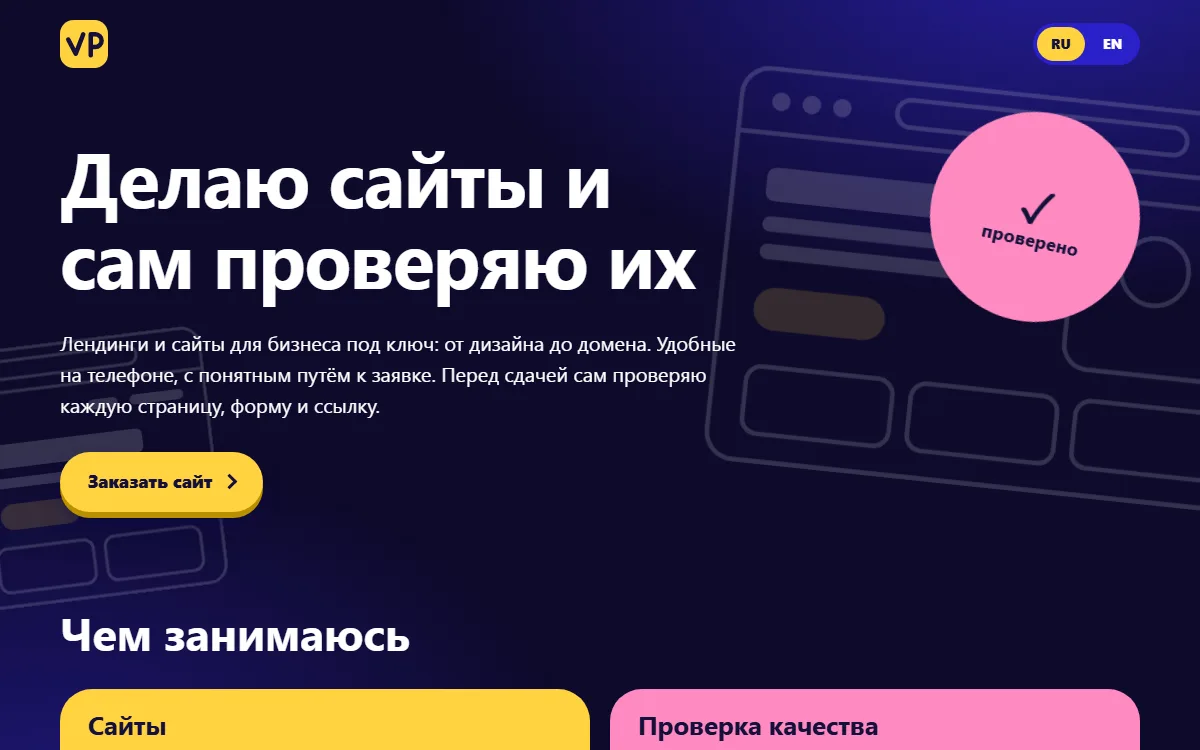
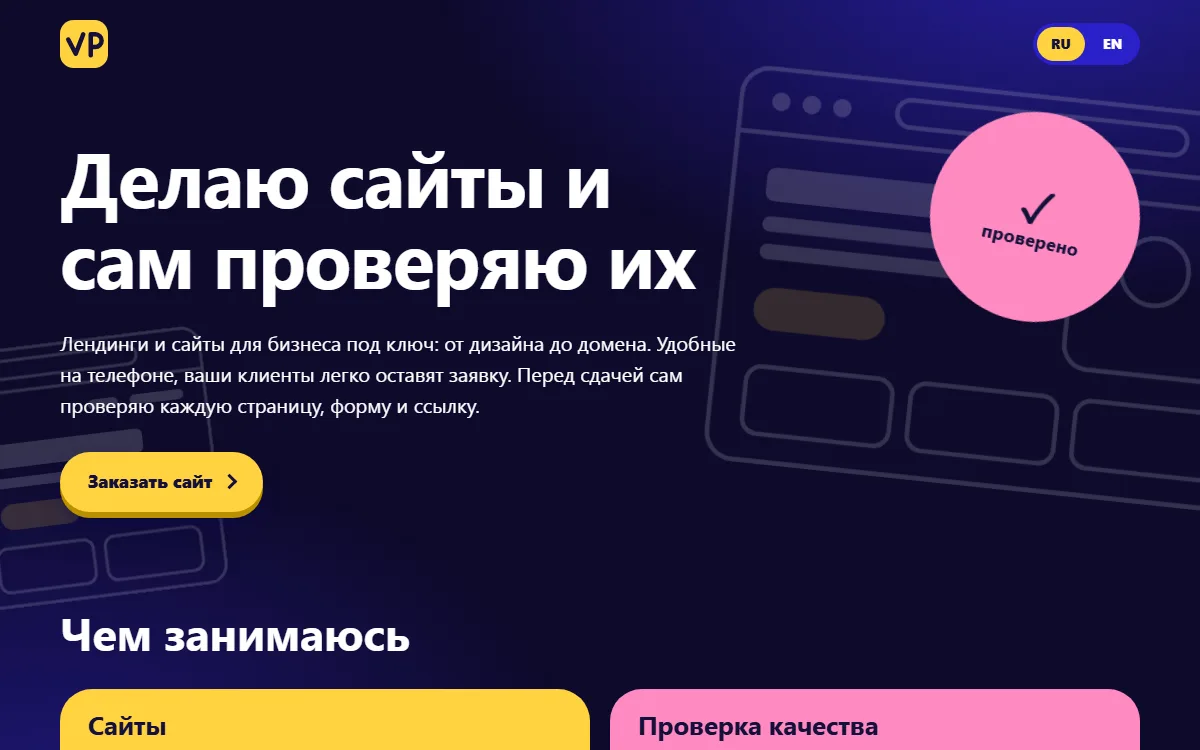
Правки после ревью: тексты по факту, мёртвые стили, CLAUDE.md сверен с сайтом

Changed region(s): [[0.0308, 0.4907, 0.5858, 0.552]]

diff --git a/index.html b/index.html
@@ -92,7 +92,7 @@
         <span>проверено</span>
       </div>
       <h1 data-testid="hero-title" class="intro"><span>Делаю сайты и сам проверяю их</span></h1>
-      <p class="lead intro"><span class="sweep">Лендинги и сайты для бизнеса под ключ: от дизайна до домена. Удобные на телефоне, с понятным путём к заявке. Перед сдачей сам проверяю каждую страницу, форму и ссылку.</span></p>
+      <p class="lead intro"><span class="sweep">Лендинги и сайты для бизнеса под ключ: от дизайна до домена. Удобные на телефоне, ваши клиенты легко оставят заявку. Перед сдачей сам проверяю каждую страницу, форму и ссылку.</span></p>
       <div class="intro"><a data-testid="hero-order" class="btn" href="#order">Заказать сайт</a></div>
     </div>
 
@@ -112,7 +112,7 @@
         <li><strong>Адаптивная вёрстка</strong><span>Сайт удобен на телефоне, планшете и компьютере.</span></li>
         <li><strong>Формы и ссылки</strong><span>Проверяю, что заявка доходит, а ссылки не ведут в никуда.</span></li>
         <li><strong>Телефоны и компьютеры</strong><span>Смотрю каждую страницу на разных размерах экрана.</span></li>
-        <li><strong>Автотесты на Python</strong><span>Ключевые проверки повторяются после каждой правки.</span></li>
+        <li><strong>Автотесты на Python</strong><span>Ключевые проверки можно повторить перед каждой выкладкой.</span></li>
       </ul>
     </section>
 
@@ -148,7 +148,7 @@
             <li>До 6 страниц</li>
             <li>Дизайн под ваш фирменный стиль</li>
             <li>Форма заявки, SEO-настройка, карта сайта</li>
-            <li>Проверка ключевых страниц и формы</li>
+            <li>Проверка всех страниц и формы</li>
             <li>Срок: от 2 недель</li>
           </ul>
           <a data-testid="plan-order" class="btn" href="#order">Заказать</a>
@@ -193,7 +193,7 @@
                loading="lazy" decoding="async" alt="Главный экран приложения «Карманный тренер»: схема тела и группы мышц">
           <span class="kind">Мой проект · веб-приложение</span>
           <h3 class="title">Карманный тренер</h3>
-          <p class="task">Задача: бесплатный каталог упражнений для зала. Выбираешь мышцу на схеме тела и видишь технику по шагам. Ставится на телефон и работает без интернета.</p>
+          <p class="task">Задача: бесплатный каталог упражнений для зала. Выбираешь мышцу на схеме тела и видишь технику по шагам. Ставится на телефон, каталог работает без интернета.</p>
           <ul class="tech"><li>Astro</li><li>PWA</li><li>pytest</li><li>Playwright</li></ul>
           <span class="open">Открыть приложение</span>
         </a>

diff --git a/en/index.html b/en/index.html
@@ -92,7 +92,7 @@
         <span>checked</span>
       </div>
       <h1 data-testid="hero-title" class="intro"><span>I build websites and test them myself</span></h1>
-      <p class="lead intro"><span class="sweep">Turnkey landing pages and business websites, from design to domain. Easy to use on a phone, with a clear path to an enquiry. Before handover I personally check every page, form and link.</span></p>
+      <p class="lead intro"><span class="sweep">Turnkey landing pages and business websites, from design to domain. Easy to use on a phone, and easy for your customers to reach you. Before handover I personally check every page, form and link.</span></p>
       <div class="intro"><a data-testid="hero-order" class="btn" href="#order">Order a site</a></div>
     </div>
 
@@ -112,7 +112,7 @@
         <li><strong>Responsive layout</strong><span>The site works well on phones, tablets and desktops.</span></li>
         <li><strong>Forms and links</strong><span>I make sure enquiries arrive and no link leads nowhere.</span></li>
         <li><strong>Phones and desktops</strong><span>I review every page at different screen sizes.</span></li>
-        <li><strong>Automated tests in Python</strong><span>Key checks are repeated after every change.</span></li>
+        <li><strong>Automated tests in Python</strong><span>Key checks can be repeated before every release.</span></li>
       </ul>
     </section>
 
@@ -142,7 +142,7 @@
             <li>Up to 6 pages</li>
             <li>Design that follows your brand</li>
             <li>Contact form, SEO setup, sitemap</li>
-            <li>Checks of key pages and the form</li>
+            <li>Checks of every page and the form</li>
             <li>Timeline: from 2 weeks</li>
           </ul>
           <a data-testid="plan-order" class="btn" href="#order">Order</a>
@@ -187,7 +187,7 @@
                loading="lazy" decoding="async" alt="Home screen of the Pocket Trainer app: body diagram and muscle groups">
           <span class="kind">My project · web app (in Russian)</span>
           <h3 class="title">Pocket Trainer</h3>
-          <p class="task">The task: a free gym exercise catalog. Pick a muscle on the body diagram and see step-by-step technique. Installs on a phone and works offline.</p>
+          <p class="task">The task: a free gym exercise catalog. Pick a muscle on the body diagram and see step-by-step technique. Installs on a phone, and the catalog works offline.</p>
           <ul class="tech"><li>Astro</li><li>PWA</li><li>pytest</li><li>Playwright</li></ul>
           <span class="open">Open the app</span>
         </a>

diff --git a/css/style.css b/css/style.css
@@ -1,4 +1,3 @@
-[hidden] { display: none !important; }
 :root {
   --blue: #3a2eff;
   --bg: #0e0a2b;
@@ -258,13 +257,6 @@ h2 { font-family: var(--font); font-weight: 700; font-size: clamp(1.7rem, 4.5vw,
 .contacts a > span:first-child { display: inline-block; transition: transform .3s var(--ease); }
 .contacts a:hover { color: var(--yellow); }
 .contacts a:hover > span:first-child { transform: translateX(12px); }
-/* contact that does not exist yet: same row, not clickable, muted */
-.contacts .soon-row {
-  display: flex; justify-content: space-between; gap: 16px; align-items: baseline;
-  padding: 22px 0; font-family: var(--font); font-weight: 600;
-  font-size: clamp(1.15rem, 3.2vw, 2rem); opacity: .55;
-}
-.contacts .soon-row .val { color: var(--white); font-style: italic; }
 .contacts .val {
   font-family: var(--font); font-weight: 800; font-size: 1rem;
   color: var(--pink); text-align: right; overflow-wrap: anywhere;
@@ -370,7 +362,6 @@ section:has(.currency input[value="rub"]:checked) .amount-byn { display: none; }
 .notfound h1 { margin: 0 0 8px; font-size: clamp(1.8rem, 5vw, 3rem); }
 .notfound p { margin: 0; }
 .notfound .notfound-links { display: flex; flex-wrap: wrap; gap: 16px; margin-top: 24px; }
-.placeholder { font-style: italic; opacity: .8; }
 .notfound .code { font-family: var(--font); font-weight: 700; font-size: clamp(5rem, 22vw, 12rem); line-height: 1; color: var(--yellow); }
 
 footer { padding: 24px 0 48px; font-size: .9rem; opacity: .8; display: flex; flex-wrap: wrap; gap: 8px 24px; }
@@ -422,7 +413,7 @@ main:focus-visible { outline: none; }
   .hero { padding: 24px 0 72px; }
   .stamp { position: static; margin: 0 0 24px; }
   .panels, .cards, .trust { grid-template-columns: 1fr; }
-  .contacts a, .contacts .soon-row { flex-direction: column; gap: 4px; }
+  .contacts a { flex-direction: column; gap: 4px; }
   .contacts .val { text-align: left; }
   .currency legend { float: none; line-height: 1.4; margin-bottom: 10px; } /* both pills fit in one row */
   .about { grid-template-columns: 1fr; gap: 32px; }

diff --git a/CLAUDE.md b/CLAUDE.md
@@ -11,7 +11,7 @@
 
 Главная мысль страницы: **«Делаю сайты и сам проверяю их»**. Вадим в первую очередь разработчик сайтов, проверка качества — его плюс.
 
-**Упор во всех текстах — на разработку сайтов, тестирование второстепенно** (решение владельца, 26.10.2026). Для клиента пишем о том, что он получит (сайт под ключ, удобный на телефоне, с формой заявки, проверенный перед сдачей), а не о технологиях. Названия инструментов (pytest, Playwright) и слово «автотесты» — только в коротких упоминаниях: карточка «Проверка качества», «Обо мне», навыки в JSON-LD. Профессия в JSON-LD: «Разработчик сайтов».
+**Упор во всех текстах — на разработку сайтов, тестирование второстепенно** (решение владельца, 26.10.2026). Для клиента пишем о том, что он получит (сайт под ключ, удобный на телефоне, с формой заявки, проверенный перед сдачей), а не о технологиях. Названия инструментов (pytest, Playwright) и слово «автотесты» — только в коротких упоминаниях: карточка «Проверка качества», список «что проверяю», «Обо мне», технологии в карточках «Мои сайты», навыки в JSON-LD. Профессия в JSON-LD: «Разработчик сайтов».
 
 Адрес: `https://vpopchenya.github.io` (русская версия) и `https://vpopchenya.github.io/en/` (английская). Размещён на GitHub Pages, это статический сайт без сборки.
 
@@ -21,7 +21,7 @@
 
 1. **Сначала вопросы, потом действия.** Перед любым действием, особенно публикацией, коммитом, включением настроек или созданием контента, который увидят люди, задавай уточняющие вопросы. Так результат получается лучше.
 2. **Сначала показать, потом публиковать.** Новую версию сначала показывай в виде превью (закрытая страница или файл) и публикуй на GitHub только после явного «да» владельца.
-3. **Не выдумывать публичные данные.** Контакты и цены сейчас заглушки. Не подставляй чужие или придуманные значения, не размещай их в структурированных данных (JSON-LD).
+3. **Не выдумывать публичные данные.** Контакты настоящие, цены ориентировочные. Не подставляй чужие или придуманные значения, не размещай их в структурированных данных (JSON-LD).
 4. **Заглушка не должна быть рабочей ссылкой.** Ссылка вида `t.me/username` ведёт на чужой аккаунт. Пока контакта или работы нет, показывай неактивную строку «скоро появится», а не ссылку.
 5. **Не создавать аккаунты и не вводить ключи** вместо владельца. Ключи сервисов он получает сам.
 6. **Общение по-русски**, коротко и по делу. Проверяй все ключевые ширины: 1920, 1280, 768 и 390 px, плюс обе стороны каждой точки перестройки вёрстки (901/900 и 761/760 px). Скриншоты смотри на 1920, 1280, 768 и 390 px.
@@ -108,9 +108,10 @@ CLAUDE.md               этот файл
 |---|---|
 | Шапка (все страницы, кроме 404) | `logo`, `lang-switch`, `lang-ru`, `lang-en` |
 | Главный экран | `skip-link`, `stamp`, `hero-title`, `hero-order` |
-| Секции | `section-what`, `section-prices`, `section-works`, `section-order`, `section-contacts` |
+| Секции | `section-what`, `section-prices`, `section-process`, `section-works`, `section-order`, `section-contacts` |
+| «Как проходит работа» | `step-1` … `step-5` |
 | «Чем занимаюсь» | `panel-tests`, `panel-sites`, `trust-list` |
-| Цены | `plan-landing`, `plan-corporate`, `plan-multipage`, внутри каждой `plan-price`, `plan-order`. Только RU: `currency-switch`, `currency-rub`, `currency-byn` (на `<label>`), в `plan-price` лежат `plan-price-rub` и `plan-price-byn`. Только EN: в `plan-price` лежит `plan-price-usd` |
+| Цены | `plan-landing`, `plan-corporate`, `plan-multipage`, внутри каждой `plan-price`, `plan-order`; под карточками `plans-note`. Только RU: `currency-switch`, `currency-rub`, `currency-byn` (на `<label>`), в `plan-price` лежат `plan-price-rub` и `plan-price-byn`. Только EN: в `plan-price` лежит `plan-price-usd` |
 | «Обо мне» | `section-about`, `about-photo`, `about-name`, `about-github` |
 | «Мои сайты» | `work-card-1`, `work-card-2`, `works-order` |
 | Заказ | `order-telegram`, `order-email` |
@@ -150,13 +151,12 @@ CLAUDE.md               этот файл
 - **Свет следует за курсором** в карточках «Мои сайты» (CSS-переменные `--mx`, `--my`, их задаёт JS).
 - **Миниатюры сайтов** в карточках слегка наклоняются при наведении.
 - **Ссылки:** адреса в контактах розовые, при наведении становятся мятными, под ними выезжает линия, название слева желтеет и сдвигается. Ссылки в тексте политики тоже розовые.
-- **Заглушки контактов** (`.soon-row`) выглядят как строка контакта, но приглушены, без ссылки и без эффектов наведения.
 - **Заголовок** на главном экране при наведении сдвигается и желтеет. Логотип наклоняется.
 - **Фокус с клавиатуры:** жёлтая рамка у всех интерактивных элементов, есть ссылка «Перейти к содержимому».
 
 ## Карточки
 
-- **«Услуги и цены»:** три стеклянные карточки: Лендинг (от 15 000 ₽), Корпоративный сайт (от 40 000 ₽), Многостраничный сайт (от 70 000 ₽). **Цены ориентировочные заглушки**, в коде помечены комментарием. Под карточками написано, что точную цену называют после разговора. Кнопка «Заказать» ведёт к форме и сама выбирает нужный тип. Названия тарифов крупные, у каждой карточки свой цвет акцента (жёлтый, мятный, розовый). На компьютере (от 901 px) карточки делят общие строки через `grid-template-rows: subgrid`: название, описание, цена, список и кнопка стоят на одном уровне при любой длине текста. Раньше выравнивалась только высота названий, и на 1920 (EN) и 901 (RU) px цены оказывались на разной высоте. В браузерах без `subgrid` остаётся запасной вариант с `min-height`. **В карточке цены должно быть ровно 5 дочерних элементов** (`h3`, `.for`, `.price`, `ul`, кнопка), иначе сетка собьётся.
+- **«Услуги и цены»:** три стеклянные карточки: Лендинг (от 15 000 ₽), Корпоративный сайт (от 40 000 ₽), Многостраничный сайт (от 70 000 ₽). **Цены ориентировочные заглушки**, в коде помечены комментарием. Под карточками написано, что точную цену называют после разговора. Кнопка «Заказать» ведёт к блоку `#order`. Названия тарифов крупные, у каждой карточки свой цвет акцента (жёлтый, мятный, розовый). На компьютере (от 901 px) карточки делят общие строки через `grid-template-rows: subgrid`: название, описание, цена, список и кнопка стоят на одном уровне при любой длине текста. Раньше выравнивалась только высота названий, и на 1920 (EN) и 901 (RU) px цены оказывались на разной высоте. В браузерах без `subgrid` остаётся запасной вариант с `min-height`. **В карточке цены должно быть ровно 5 дочерних элементов** (`h3`, `.for`, `.price`, `ul`, кнопка), иначе сетка собьётся.
 - **Переключатель валюты** над карточками, только в русской версии: «Тарифы для: России · ₽ / Беларуси · BYN», по умолчанию ₽. Работает только на CSS: две радиокнопки, правило `section:has(...:checked)` прячет цену другой валюты. В браузерах без `:has` видны обе цены, это допустимый запасной вариант. Кнопки используют стиль таблеток формы (`.chip`). Обе цены лежат внутри одного `.price`, поэтому в карточке по-прежнему 5 элементов. **Цены в BYN — пересчёт цен в ₽ по официальному курсу НБРБ на 26.10.2026 (100 ₽ = 3,6597 BYN), округлённый до 10 BYN:** 550, 1 460 и 2 560 BYN. Так решил владелец. Курс меняется: при смене цен в ₽ или раз в несколько месяцев пересчитайте BYN по свежему курсу и обновите дату в комментарии рядом с ценами (в обеих версиях). Курс смотрите на [nbrb.by](https://www.nbrb.by/statistics/rates/ratesdaily) или [myfin.by](https://myfin.by/bank/kursy_valjut_nbrb/rub). **В английской версии переключателя нет, цены только в долларах** (так решил владелец): $190, $500 и $870 — пересчёт цен в ₽ по кросс-курсу НБРБ на 26.10.2026 (1 $ = 2,9460 BYN, отсюда 1 $ ≈ 80,5 ₽), округлённый до $10. Пересчитывать вместе с BYN. Тесты: `tests/test_currency.py`.
 - Стиль «стекла» общий для `.card`, `.plan` и `.order` (один блок в CSS).
 - **Что проверяю** (`.trust`, под карточками «Чем занимаюсь»): четыре факта без цифр и наград. Отзывы, сертификаты и достижения не выдумываем.
@@ -190,7 +190,7 @@ CLAUDE.md               этот файл
 - Точки перестройки в CSS: **900 px** (цены в одну колонку) и **760 px** (блоки, контакты в одну колонку, печать встаёт в поток, упрощённый фон). Все медиазапросы собраны в конце `style.css`.
 - Заголовки на `clamp()`, боковые отступы 16–20 px, горизонтальной прокрутки нет (проверено на 1920, 1280, 901, 900, 768, 761, 760 и 390 px).
 - На телефоне фон упрощён: остаётся одно окно сверху, чтобы не мешать тексту. Печать «проверено» встаёт в поток над заголовком.
-- Таблетки выбора типа сайта переносятся на новые строки, строки контактов складываются в столбик.
+- Строки контактов складываются в столбик.
 
 ## SEO
 
@@ -203,10 +203,10 @@ CLAUDE.md               этот файл
 
 ## Производительность
 
-- Вся страница вместе с CSS и JS около 12 КБ в сжатом виде (HTML около 5 КБ, CSS около 5 КБ, JS около 1,5 КБ), без шрифтов, без сторонних скриптов, без аналитики и внешних запросов.
+- Страница без картинок лёгкая: без шрифтов, без сторонних скриптов, без аналитики и внешних запросов.
 - Скрипт подключён с `defer`, маленький inline-скрипт ставит класс `js`.
-- Из картинок на странице только фото в «Обо мне» (WebP, 19 КБ, грузится лениво), остальное нарисовано в SVG и CSS. Картинки для соцсетей нужны только поисковикам и мессенджерам.
-- **Когда появятся настоящие картинки** (скриншоты работ): формат WebP или AVIF, ширина не больше нужной (обычно до 1600 px), атрибуты `width` и `height` (чтобы страница не прыгала при загрузке), `loading="lazy"` для всего, что ниже первого экрана, осмысленный `alt`.
+- Картинки на странице: фото в «Обо мне» и скриншоты работ (WebP, грузятся лениво), остальное нарисовано в SVG и CSS. Картинки для соцсетей нужны только поисковикам и мессенджерам.
+- **Новые картинки:** формат WebP или AVIF, ширина не больше нужной (обычно до 1600 px), атрибуты `width` и `height` (чтобы страница не прыгала при загрузке), `loading="lazy"` для всего, что ниже первого экрана, осмысленный `alt`.
 - Если вернёте внешние шрифты, используйте `font-display: swap`, подмножества (cyrillic, latin) и `preload`.
 - Цель: в PageSpeed Insights (Lighthouse) не ниже 90 по всем четырём оценкам на телефоне.
 
@@ -278,7 +278,7 @@ CLAUDE.md               этот файл
 - переключение RU ↔ EN в обе стороны;
 - блок заказа: кнопки ведут в Telegram и на почту, все кнопки «Заказать» ведут к блоку, на страницах нет формы;
 - если заблокировать `main.js`, все секции всё равно появляются через 2,5 с;
-- на страницах нет ссылок `t.me` и `mailto:`, пока контакты заглушки.
+- ссылки контактов ведут в Telegram и на почту.
 
 Дополнительно полезно: [validator.w3.org](https://validator.w3.org/) для HTML, PageSpeed Insights для скорости и доступности, проверка битых ссылок.
 
@@ -328,9 +328,7 @@ CLAUDE.md               этот файл
 
 - **Две страницы вместо JS-переключателя:** для индексации обеих версий в поиске.
 - **Системные шрифты:** файлы шрифтов нельзя было скачать, и это самый быстрый вариант.
-- **Таблетки вместо выпадающего списка:** системная подсветка пункта плохо читалась на тёмном фоне и выглядела по-разному в браузерах.
 - **Тёмный фон:** владельцу казалось, что синего слишком много.
-- **Форма через внешний сервис:** у статичного сайта нет сервера, а подключение сервиса остаётся за владельцем (регистрация и ключ).
 - **Логотип VP:** владелец захотел свой знак вместо имени и фамилии в шапке.
 - **Неактивные заглушки вместо ссылок:** `t.me/username` вёл бы на чужой аккаунт, а выдуманные работы вводили бы клиента в заблуждение.
 - **Страховка анимации появления:** контент важнее эффекта, страница не должна оставаться пустой из-за одного файла.
@@ -360,4 +358,4 @@ CLAUDE.md               этот файл
   - тексты переписаны с упором на разработку сайтов, тестирование стало дополнением: заголовок и описание для поиска, строка на первом экране, печать «проверено», карточки «Сайты» (первая) и «Проверка качества», тарифы, этап проверки, «Обо мне», JSON-LD, фон с HTML-разметкой.
   - карточки «Чем занимаюсь» снова одной высоты в ряду (убран `align-items: start`).
 - **27.10.2026**: форма заявки убрана (решение 26.10.2026): в блоке «Заказать сайт» кнопки «Написать в Telegram» и «Написать на почту», из CSP убран Web3Forms, из `main.js` и `style.css` — код и стили формы, тесты формы заменены на `test_order.py`. Политика конфиденциальности переписана: сайт ничего не собирает, в ней настоящая почта.
-- **01.11.2026**: разбор внешнего списка правок. Из фона убраны код и отчёт pytest, усилен абзац на первом экране, блок «что проверяю», «Мои сайты» с настоящими проектами вместо заглушек, сделаны картинки для соцсетей, обновлён `sitemap.xml`.
+- **01.11.2026**: разбор внешнего списка правок. Из фона убраны код и отчёт pytest, усилен абзац на первом экране, блок «что проверяю», «Мои сайты» с настоящими проектами вместо заглушек, сделаны картинки для соцсетей, обновлён `sitemap.xml`. После ревью: тексты приведены к тому, что делается на самом деле (проверки запускаются вручную, «Корпоративный» проверяет все страницы, без интернета работает только каталог), убраны мёртвые стили, этот файл сверен с сайтом.
